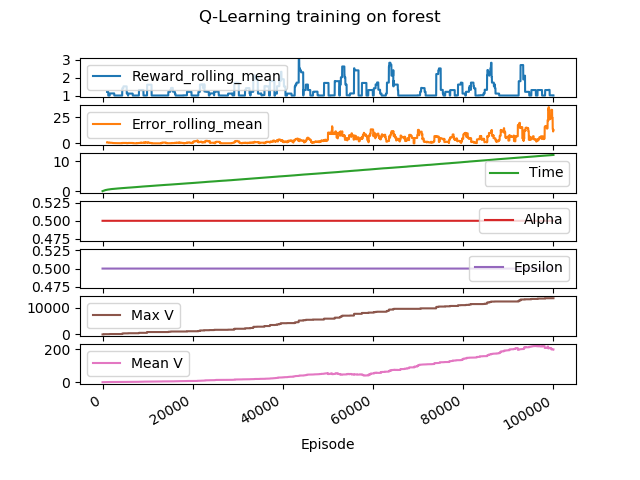
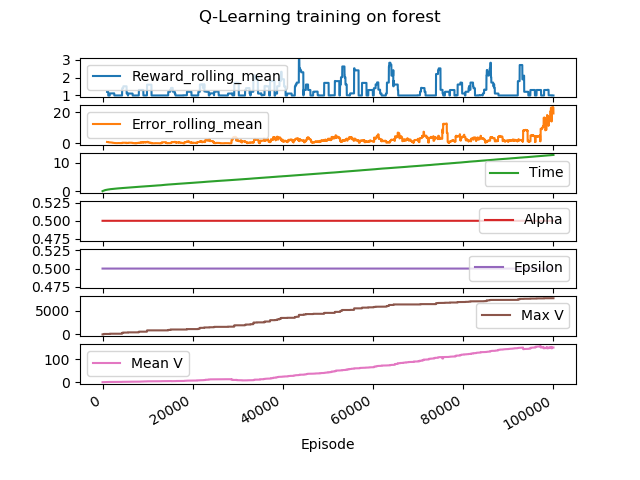
rerun

diff --git a/MDP/assignment4/run_compare.py b/MDP/assignment4/run_compare.py
@@ -16,7 +16,7 @@ def print_frozen_lake_policy(policy):
     return np.array(map_action).reshape((nE, nE))
 
 
-to_solve = ["frozen_lake", "frozen_lake_modrew", "forest"]
+to_solve = ["frozen_lake", "forest"]
 
 for prob_key in PROBS:
     if prob_key not in to_solve:
@@ -25,37 +25,33 @@ for prob_key in PROBS:
     P, R = PROBS[prob_key]
 
     if prob_key == "frozen_lake":
-        gamma = 0.99
         n_epi = 10000
         eps_schedule = make_schedules(n_epi)["exp_decay"]
         alpha_schedule = make_schedules(n_epi)["constant_0.01"]
     elif prob_key == "forest":
-        gamma = 0.999
         n_epi = 100000
         eps_schedule = make_schedules(n_epi)["constant_0.5"]
         alpha_schedule = make_schedules(n_epi)["constant_0.5"]
 
     print("..Running value iteration...")
-    vi = ValueIteration(P, R, gamma=gamma, epsilon=0.001, max_iter=1000)
+    vi = ValueIteration(P, R, gamma=0.99, epsilon=0.001, max_iter=1000)
     vi.run()
     vi_df = pd.DataFrame(vi.run_stats).set_index("Iteration")
     vi_df.columns = pd.MultiIndex.from_product([vi_df.columns, ["value_iter"]])
     print(f"Runtime per value iter: {vi.time/vi.iter} sec")
-    print(f"VI performance: {test_policy(P,R,vi.policy)}")
 
     print("..Running policy iteration...")
-    pi = PolicyIteration(P, R, gamma=gamma, eval_type=1, max_iter=1000)
+    pi = PolicyIteration(P, R, gamma=0.99, eval_type=1, max_iter=1000)
     pi.run()
     pi_df = pd.DataFrame(pi.run_stats).set_index("Iteration")
     pi_df.columns = pd.MultiIndex.from_product([pi_df.columns, ["policy_iter"]])
     print(f"Runtime per policy iter: {pi.time/pi.iter} sec")
-    print(f"PI performance: {test_policy(P,R,pi.policy)}")
 
     print("..Running q-learning...")
     ql = QLearning(
         P,
         R,
-        gamma=gamma,
+        gamma=0.99,
         alpha_schedule=alpha_schedule,
         epsilon_schedule=eps_schedule,
         n_episode=n_epi,
@@ -84,11 +80,10 @@ for prob_key in PROBS:
     plt.savefig(f"output/{prob_key}_q.png")
     plt.close()
     print(f"Runtime per q-learning episode: {ql.time/ql.n_episode} sec")
-    print(f"Q-learning performance: {test_policy(P,R,ql.policy)}")
 
     res_df = vi_df.join(pi_df, how="outer")
     res_df.to_csv(f"data/{prob_key}_vpiter.csv")
-    for var in ["Reward", "Error", "Time", "Max V", "Mean V"]:
+    for var in ["Error", "Time", "Max V", "Mean V"]:
         res_df.xs(var, level=0, axis=1).plot(
             title=f"{var} on {prob_key}", figsize=(8, 4)
         )
@@ -108,3 +103,11 @@ for prob_key in PROBS:
     print(f"Value diff vi vs. pi: {sum([abs(v1-v2) for v1,v2 in zip(vi.V, pi.V)])}")
     print(f"Value diff vi vs. ql: {sum([abs(v1-v2) for v1,v2 in zip(vi.V, ql.V)])}")
     print(f"Value diff pi vs. ql: {sum([abs(v1-v2) for v1,v2 in zip(pi.V, ql.V)])}")
+
+    V_df = pd.DataFrame(data=[vi.V, pi.V, ql.V], index=["vi", "pi", "ql"]).T
+    V_df.to_csv(f"data/{prob_key}_V_cmp.csv")
+
+    policy_df = pd.DataFrame(
+        data=[vi.policy, pi.policy, ql.policy], index=["vi", "pi", "ql"]
+    ).T
+    policy_df.to_csv(f"data/{prob_key}_policy_cmp.csv")

diff --git a/MDP/assignment4/n_states.py b/MDP/assignment4/n_states.py
@@ -1,0 +1,46 @@
+import pandas as pd
+from hiive.mdptoolbox.example import forest
+from hiive.mdptoolbox.mdp import ValueIteration
+from hiive.mdptoolbox.mdp import PolicyIteration
+
+N_STATES = range(100, 1001, 100)
+V_all = {}
+policy_all = {}
+vi_res = {
+    "Iteration to converge": [],
+    "Time to converge": [],
+    "Max V": [],
+    "Mean V": [],
+}
+pi_res = {
+    "Iteration to converge": [],
+    "Time to converge": [],
+    "Max V": [],
+    "Mean V": [],
+}
+for s in N_STATES:
+    print(f"Running nS {s}...")
+    P, R = forest(S=s, p=0.001, r1=100, r2=10)
+    vi = ValueIteration(P, R, gamma=0.99, epsilon=0.001)
+    vi.run()
+    vi_res["Iteration to converge"].append(vi.iter)
+    vi_res["Time to converge"].append(vi.time)
+    vi_res["Max V"].append(vi.run_stats[-1]["Max V"])
+    vi_res["Mean V"].append(vi.run_stats[-1]["Mean V"])
+    V_all[("vi", s)] = vi.V
+    policy_all[("vi", s)] = vi.policy
+    pi = PolicyIteration(P, R, gamma=0.99, eval_type=1, max_iter=1000)
+    pi.run()
+    pi_res["Iteration to converge"].append(pi.iter)
+    pi_res["Time to converge"].append(pi.time)
+    pi_res["Max V"].append(pi.run_stats[-1]["Max V"])
+    pi_res["Mean V"].append(pi.run_stats[-1]["Mean V"])
+    V_all[("pi", s)] = pi.V
+    policy_all[("pi", s)] = pi.policy
+vi_df = pd.DataFrame(vi_res, index=N_STATES)
+pi_df = pd.DataFrame(pi_res, index=N_STATES)
+
+vi_df.to_csv("data/vi_nS.csv")
+pi_df.to_csv("data/pi_nS.csv")
+pd.DataFrame.from_dict(V_all, orient="index").T.to_csv("data/nS_V.csv")
+pd.DataFrame.from_dict(policy_all, orient="index").T.to_csv("data/nS_policy.csv")

diff --git a/MDP/assignment4/policy_iteration.py b/MDP/assignment4/policy_iteration.py
@@ -8,7 +8,7 @@ from q_fc import test_policy
 
 to_solve = ["frozen_lake", "forest"]
 
-DISCOUNT_RATES = [0.3, 0.5, 0.8, 0.9, 0.99, 0.999, 0.9999]
+DISCOUNT_RATES = [0.3, 0.5, 0.8, 0.9, 0.99, 0.999]
 
 for prob_key in PROBS:
     if prob_key not in to_solve:
@@ -20,7 +20,6 @@ for prob_key in PROBS:
 
     res_dict = {
         "Iteration to converge": [],
-        "Reward": [],
         "Max V": [],
         "Mean V": [],
         "Optimal policy reward": [],
@@ -33,7 +32,6 @@ for prob_key in PROBS:
         pi = PolicyIteration(P, R, gamma=g, eval_type=1, max_iter=1000)
         pi.run()
         res_dict["Iteration to converge"].append(pi.iter)
-        res_dict["Reward"].append(pi.run_stats[-1]["Reward"])
         res_dict["Max V"].append(pi.run_stats[-1]["Max V"])
         res_dict["Mean V"].append(pi.run_stats[-1]["Mean V"])
         print("...testing...")

diff --git a/MDP/assignment4/value_iteration.py b/MDP/assignment4/value_iteration.py
@@ -8,7 +8,7 @@ from q_fc import test_policy
 
 to_solve = ["frozen_lake", "forest"]
 
-DISCOUNT_RATES = [0.3, 0.5, 0.8, 0.9, 0.99, 0.999, 0.9999]
+DISCOUNT_RATES = [0.3, 0.5, 0.8, 0.9, 0.99, 0.999]
 
 for prob_key in PROBS:
     if prob_key not in to_solve:
@@ -20,7 +20,6 @@ for prob_key in PROBS:
 
     res_dict = {
         "Iteration to converge": [],
-        "Reward": [],
         "Max V": [],
         "Mean V": [],
         "Optimal policy reward": [],
@@ -33,7 +32,6 @@ for prob_key in PROBS:
         vi = ValueIteration(P, R, gamma=g, epsilon=0.001)
         vi.run()
         res_dict["Iteration to converge"].append(vi.iter)
-        res_dict["Reward"].append(vi.run_stats[-1]["Reward"])
         res_dict["Max V"].append(vi.run_stats[-1]["Max V"])
         res_dict["Mean V"].append(vi.run_stats[-1]["Mean V"])
         print("...testing...")

diff --git a/MDP/assignment4/q_alpha.py b/MDP/assignment4/q_alpha.py
@@ -31,7 +31,7 @@ for prob_key in PROBS:
         alpha_schedules = make_schedules(n_epi)
 
     elif prob_key == "forest":
-        gamma = 0.999
+        gamma = 0.99
         n_epi = 100000
         eps_schedule = make_schedules(n_epi)["constant_0.5"]
         alpha_schedules = make_schedules(n_epi)

diff --git a/MDP/assignment4/q_n_epi.py b/MDP/assignment4/q_n_epi.py
@@ -27,7 +27,7 @@ for prob_key in PROBS:
         N_EPISODES = [1000, 5000, 10000, 50000, 100000]
 
     elif prob_key == "forest":
-        gamma = 0.999
+        gamma = 0.99
         N_EPISODES = [10000, 50000, 100000, 500000, 1000000]
 
     logging.info("..Running Q-Learning...")

diff --git a/MDP/assignment4/q_fc.py b/MDP/assignment4/q_fc.py
@@ -93,7 +93,7 @@ def test_policy(P, R, policy):
     nS = P.shape[1]
     step_fc = QLearning(P, R)._step
     r_all = []
-    for t in range(10000):
+    for t in range(1000):
         if len(R.shape) == 3:
             # start frozen lake from 0
             s = 0

diff --git a/MDP/assignment4/q_epsilon.py b/MDP/assignment4/q_epsilon.py
@@ -30,7 +30,7 @@ for prob_key in PROBS:
         epsilon_schedule = make_schedules(n_epi)
 
     elif prob_key == "forest":
-        gamma = 0.999
+        gamma = 0.99
         n_epi = 100000
         epsilon_schedules = make_schedules(n_epi)
 
